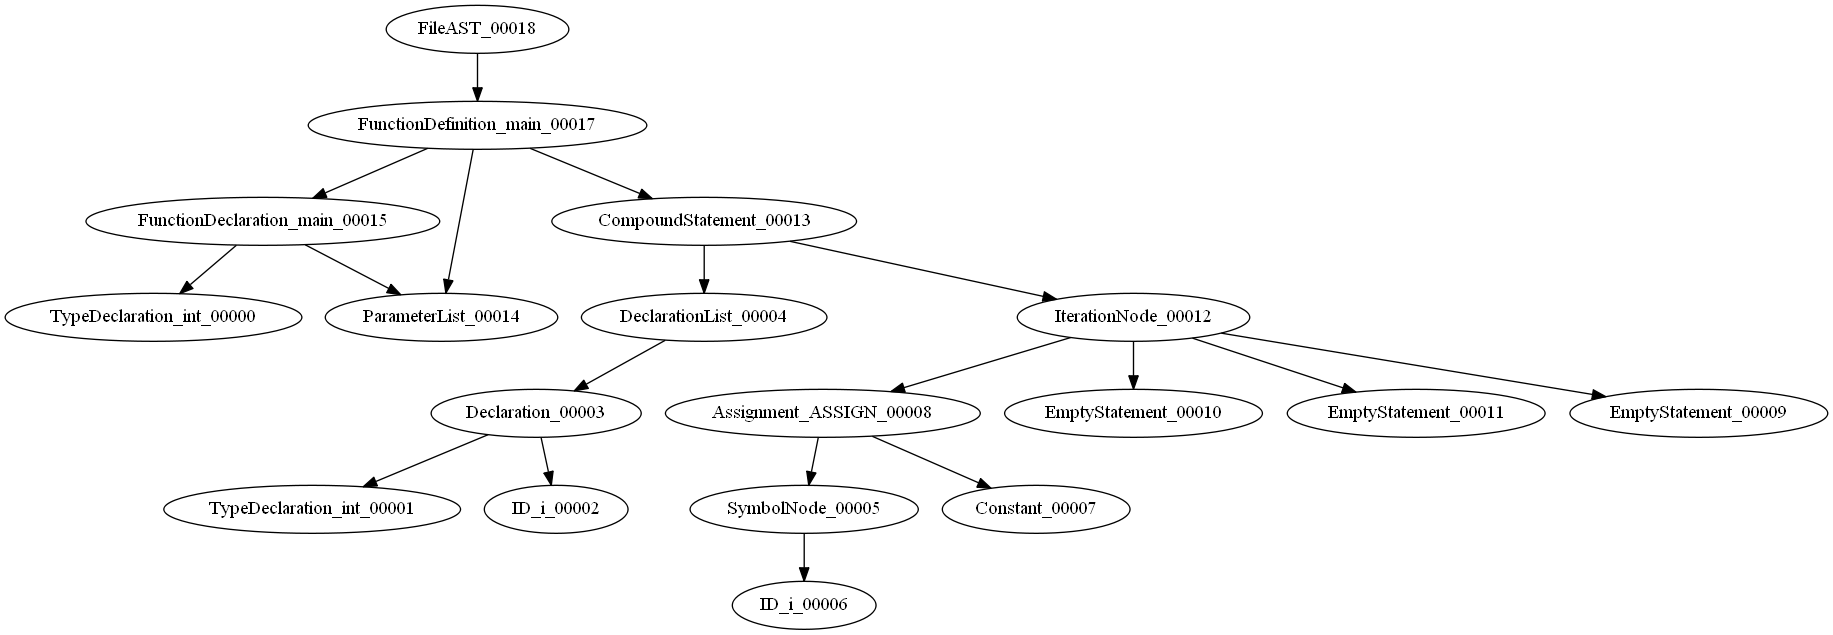
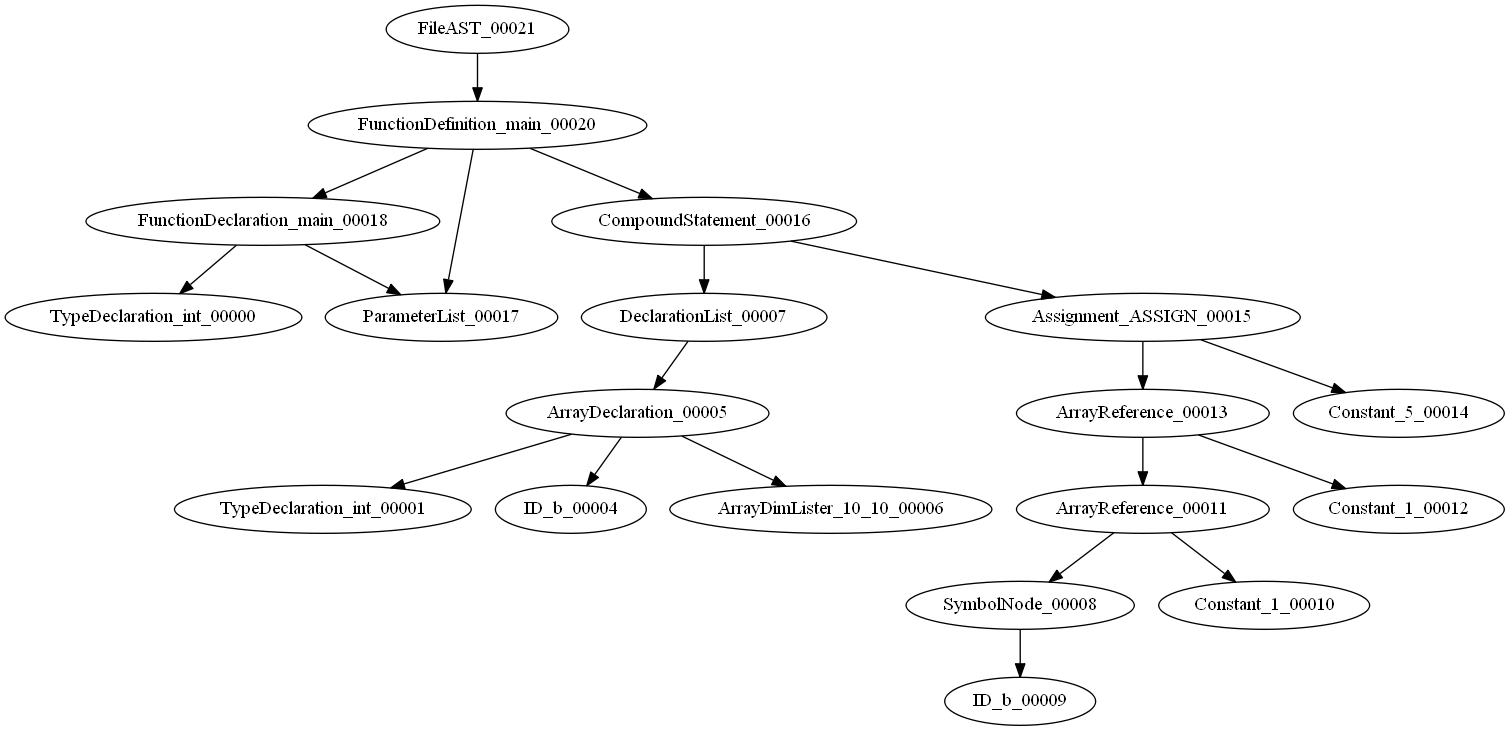
New 2D array pics

diff --git a/ast/test/test_ast.py b/ast/test/test_ast.py
@@ -23,7 +23,7 @@ from scanning.clexer import Lexer
 class TestAst(unittest.TestCase):
 
     def setUp(self):
-        self.debug = True
+        self.debug = False
 
         self.compiler_state = CompilerState()
         self.lexer = Lexer(compiler_state=self.compiler_state)
